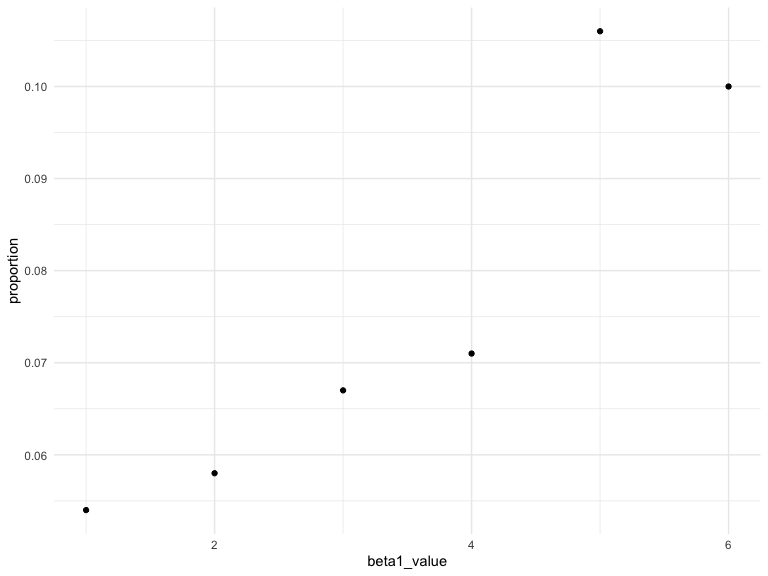
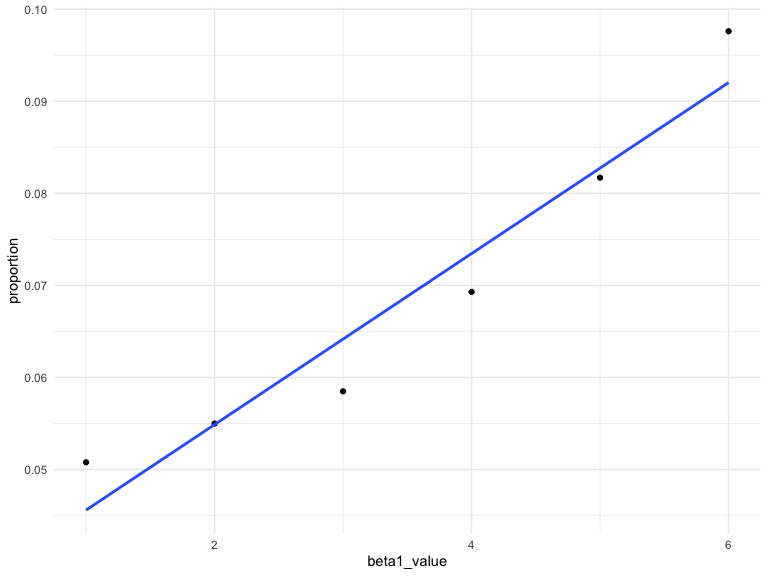
fix some problems in question 3

diff --git a/p8105_hw5_xc2472.md b/p8105_hw5_xc2472.md
@@ -64,227 +64,6 @@ study_tidy =
   rename(arm_id = files)
 ```
 
-    ## Parsed with column specification:
-    ## cols(
-    ##   week_1 = col_double(),
-    ##   week_2 = col_double(),
-    ##   week_3 = col_double(),
-    ##   week_4 = col_double(),
-    ##   week_5 = col_double(),
-    ##   week_6 = col_double(),
-    ##   week_7 = col_double(),
-    ##   week_8 = col_double()
-    ## )
-    ## Parsed with column specification:
-    ## cols(
-    ##   week_1 = col_double(),
-    ##   week_2 = col_double(),
-    ##   week_3 = col_double(),
-    ##   week_4 = col_double(),
-    ##   week_5 = col_double(),
-    ##   week_6 = col_double(),
-    ##   week_7 = col_double(),
-    ##   week_8 = col_double()
-    ## )
-    ## Parsed with column specification:
-    ## cols(
-    ##   week_1 = col_double(),
-    ##   week_2 = col_double(),
-    ##   week_3 = col_double(),
-    ##   week_4 = col_double(),
-    ##   week_5 = col_double(),
-    ##   week_6 = col_double(),
-    ##   week_7 = col_double(),
-    ##   week_8 = col_double()
-    ## )
-    ## Parsed with column specification:
-    ## cols(
-    ##   week_1 = col_double(),
-    ##   week_2 = col_double(),
-    ##   week_3 = col_double(),
-    ##   week_4 = col_double(),
-    ##   week_5 = col_double(),
-    ##   week_6 = col_double(),
-    ##   week_7 = col_double(),
-    ##   week_8 = col_double()
-    ## )
-    ## Parsed with column specification:
-    ## cols(
-    ##   week_1 = col_double(),
-    ##   week_2 = col_double(),
-    ##   week_3 = col_double(),
-    ##   week_4 = col_double(),
-    ##   week_5 = col_double(),
-    ##   week_6 = col_double(),
-    ##   week_7 = col_double(),
-    ##   week_8 = col_double()
-    ## )
-    ## Parsed with column specification:
-    ## cols(
-    ##   week_1 = col_double(),
-    ##   week_2 = col_double(),
-    ##   week_3 = col_double(),
-    ##   week_4 = col_double(),
-    ##   week_5 = col_double(),
-    ##   week_6 = col_double(),
-    ##   week_7 = col_double(),
-    ##   week_8 = col_double()
-    ## )
-    ## Parsed with column specification:
-    ## cols(
-    ##   week_1 = col_double(),
-    ##   week_2 = col_double(),
-    ##   week_3 = col_double(),
-    ##   week_4 = col_double(),
-    ##   week_5 = col_double(),
-    ##   week_6 = col_double(),
-    ##   week_7 = col_double(),
-    ##   week_8 = col_double()
-    ## )
-    ## Parsed with column specification:
-    ## cols(
-    ##   week_1 = col_double(),
-    ##   week_2 = col_double(),
-    ##   week_3 = col_double(),
-    ##   week_4 = col_double(),
-    ##   week_5 = col_double(),
-    ##   week_6 = col_double(),
-    ##   week_7 = col_double(),
-    ##   week_8 = col_double()
-    ## )
-    ## Parsed with column specification:
-    ## cols(
-    ##   week_1 = col_double(),
-    ##   week_2 = col_double(),
-    ##   week_3 = col_double(),
-    ##   week_4 = col_double(),
-    ##   week_5 = col_double(),
-    ##   week_6 = col_double(),
-    ##   week_7 = col_double(),
-    ##   week_8 = col_double()
-    ## )
-    ## Parsed with column specification:
-    ## cols(
-    ##   week_1 = col_double(),
-    ##   week_2 = col_double(),
-    ##   week_3 = col_double(),
-    ##   week_4 = col_double(),
-    ##   week_5 = col_double(),
-    ##   week_6 = col_double(),
-    ##   week_7 = col_double(),
-    ##   week_8 = col_double()
-    ## )
-    ## Parsed with column specification:
-    ## cols(
-    ##   week_1 = col_double(),
-    ##   week_2 = col_double(),
-    ##   week_3 = col_double(),
-    ##   week_4 = col_double(),
-    ##   week_5 = col_double(),
-    ##   week_6 = col_double(),
-    ##   week_7 = col_double(),
-    ##   week_8 = col_double()
-    ## )
-    ## Parsed with column specification:
-    ## cols(
-    ##   week_1 = col_double(),
-    ##   week_2 = col_double(),
-    ##   week_3 = col_double(),
-    ##   week_4 = col_double(),
-    ##   week_5 = col_double(),
-    ##   week_6 = col_double(),
-    ##   week_7 = col_double(),
-    ##   week_8 = col_double()
-    ## )
-    ## Parsed with column specification:
-    ## cols(
-    ##   week_1 = col_double(),
-    ##   week_2 = col_double(),
-    ##   week_3 = col_double(),
-    ##   week_4 = col_double(),
-    ##   week_5 = col_double(),
-    ##   week_6 = col_double(),
-    ##   week_7 = col_double(),
-    ##   week_8 = col_double()
-    ## )
-    ## Parsed with column specification:
-    ## cols(
-    ##   week_1 = col_double(),
-    ##   week_2 = col_double(),
-    ##   week_3 = col_double(),
-    ##   week_4 = col_double(),
-    ##   week_5 = col_double(),
-    ##   week_6 = col_double(),
-    ##   week_7 = col_double(),
-    ##   week_8 = col_double()
-    ## )
-    ## Parsed with column specification:
-    ## cols(
-    ##   week_1 = col_double(),
-    ##   week_2 = col_double(),
-    ##   week_3 = col_double(),
-    ##   week_4 = col_double(),
-    ##   week_5 = col_double(),
-    ##   week_6 = col_double(),
-    ##   week_7 = col_double(),
-    ##   week_8 = col_double()
-    ## )
-    ## Parsed with column specification:
-    ## cols(
-    ##   week_1 = col_double(),
-    ##   week_2 = col_double(),
-    ##   week_3 = col_double(),
-    ##   week_4 = col_double(),
-    ##   week_5 = col_double(),
-    ##   week_6 = col_double(),
-    ##   week_7 = col_double(),
-    ##   week_8 = col_double()
-    ## )
-    ## Parsed with column specification:
-    ## cols(
-    ##   week_1 = col_double(),
-    ##   week_2 = col_double(),
-    ##   week_3 = col_double(),
-    ##   week_4 = col_double(),
-    ##   week_5 = col_double(),
-    ##   week_6 = col_double(),
-    ##   week_7 = col_double(),
-    ##   week_8 = col_double()
-    ## )
-    ## Parsed with column specification:
-    ## cols(
-    ##   week_1 = col_double(),
-    ##   week_2 = col_double(),
-    ##   week_3 = col_double(),
-    ##   week_4 = col_double(),
-    ##   week_5 = col_double(),
-    ##   week_6 = col_double(),
-    ##   week_7 = col_double(),
-    ##   week_8 = col_double()
-    ## )
-    ## Parsed with column specification:
-    ## cols(
-    ##   week_1 = col_double(),
-    ##   week_2 = col_double(),
-    ##   week_3 = col_double(),
-    ##   week_4 = col_double(),
-    ##   week_5 = col_double(),
-    ##   week_6 = col_double(),
-    ##   week_7 = col_double(),
-    ##   week_8 = col_double()
-    ## )
-    ## Parsed with column specification:
-    ## cols(
-    ##   week_1 = col_double(),
-    ##   week_2 = col_double(),
-    ##   week_3 = col_double(),
-    ##   week_4 = col_double(),
-    ##   week_5 = col_double(),
-    ##   week_6 = col_double(),
-    ##   week_7 = col_double(),
-    ##   week_8 = col_double()
-    ## )
-
 create a spaghetti plot
 
 ``` r
@@ -319,9 +98,14 @@ sim_regression = function(beta0 = 2, beta1) {
     y = beta0 + beta1*x + rnorm(30, 0, 50)
   )
   
-  p_value = 
+  lm_tidy = 
     lm(y ~ x, data = sim_data) %>% 
     broom::tidy()
+  
+  tibble(
+    estimate = lm_tidy$estimate[2],
+    p_value = lm_tidy$p.value[2]
+  )
 }
 ```
 
@@ -329,17 +113,17 @@ set beta1 = 0 and generate 10000 datasets from the model
 
 ``` r
 sim_results = 
-  rerun(1000, sim_regression(beta1 = 0)) %>% 
+  rerun(10000, sim_regression(beta1 = 0)) %>% 
   bind_rows()
 ```
 
-Repeat the above for beta1 = {1,2,3,4,5,6}
+Repeat the above for beta1 = {0,1,2,3,4,5,6}
 
 ``` r
 sim_results = 
   tibble(beta1_value = c(1, 2, 3, 4, 5, 6)) %>% 
   mutate(
-    output_lists = map(.x = beta1_value, ~rerun(1000, sim_regression(beta1 = .x))),
+    output_lists = map(.x = beta1_value, ~rerun(10000, sim_regression(beta1 = .x))),
     estimate_dfs = map(output_lists, bind_rows)
   ) %>% 
   select(-output_lists) %>% 
@@ -350,42 +134,49 @@ The first plot
 
 ``` r
 sim_results %>% 
-  filter(term == "x") %>% 
-  mutate(decision = ifelse(p.value > 0.05, "not_reject", "reject")) %>% 
+  mutate(decision = ifelse(p_value > 0.05, "not_reject", "reject")) %>% 
   count(beta1_value, decision) %>% 
   group_by(beta1_value) %>% 
   mutate(proportion = n / sum(n)) %>% 
   filter(decision == "reject") %>% 
   ggplot(aes(x = beta1_value, y = proportion)) +
-  geom_point()
+  geom_point() + 
+  geom_smooth(method = "lm", se = FALSE)
 ```
 
 ![](p8105_hw5_xc2472_files/figure-gfm/unnamed-chunk-10-1.png)<!-- -->
 
 **Description**
 
-The second plot
+From the graph, we found that when effecti size increases, proportion of
+rejecting the null hypothesis also increases.
+
+### The second plot
 
 ``` r
 sim_results %>% 
-  filter(term == "x") %>% 
   group_by(beta1_value) %>% 
   mutate(mean_estimate = mean(estimate)) %>% 
   ggplot(aes(x = beta1_value, y = mean_estimate)) +
-  geom_point()
+  geom_point() + 
+  geom_smooth(method = "lm", se = FALSE)
 ```
 
 ![](p8105_hw5_xc2472_files/figure-gfm/unnamed-chunk-11-1.png)<!-- -->
 
+**Explaination**
+
+### The third plot
+
 ``` r
 sim_results %>% 
-  filter(term == "x", p.value <= 0.05) %>% 
+  filter(p_value <= 0.05) %>% 
   group_by(beta1_value) %>% 
   mutate(mean_estimate = mean(estimate)) %>% 
   ggplot(aes(x = beta1_value, y = mean_estimate)) +
-  geom_point()
+  geom_point() 
 ```
 
-![](p8105_hw5_xc2472_files/figure-gfm/unnamed-chunk-11-2.png)<!-- -->
+![](p8105_hw5_xc2472_files/figure-gfm/unnamed-chunk-12-1.png)<!-- -->
 
 **Explaination**
